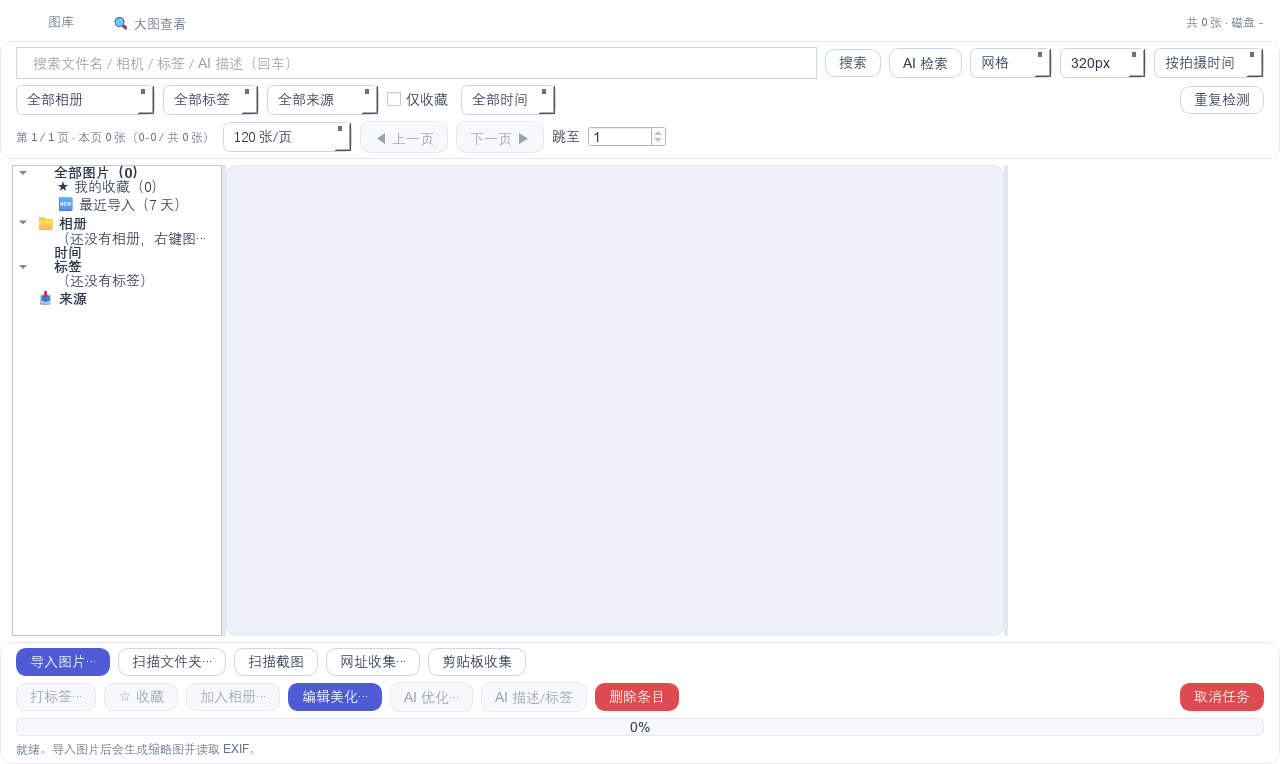
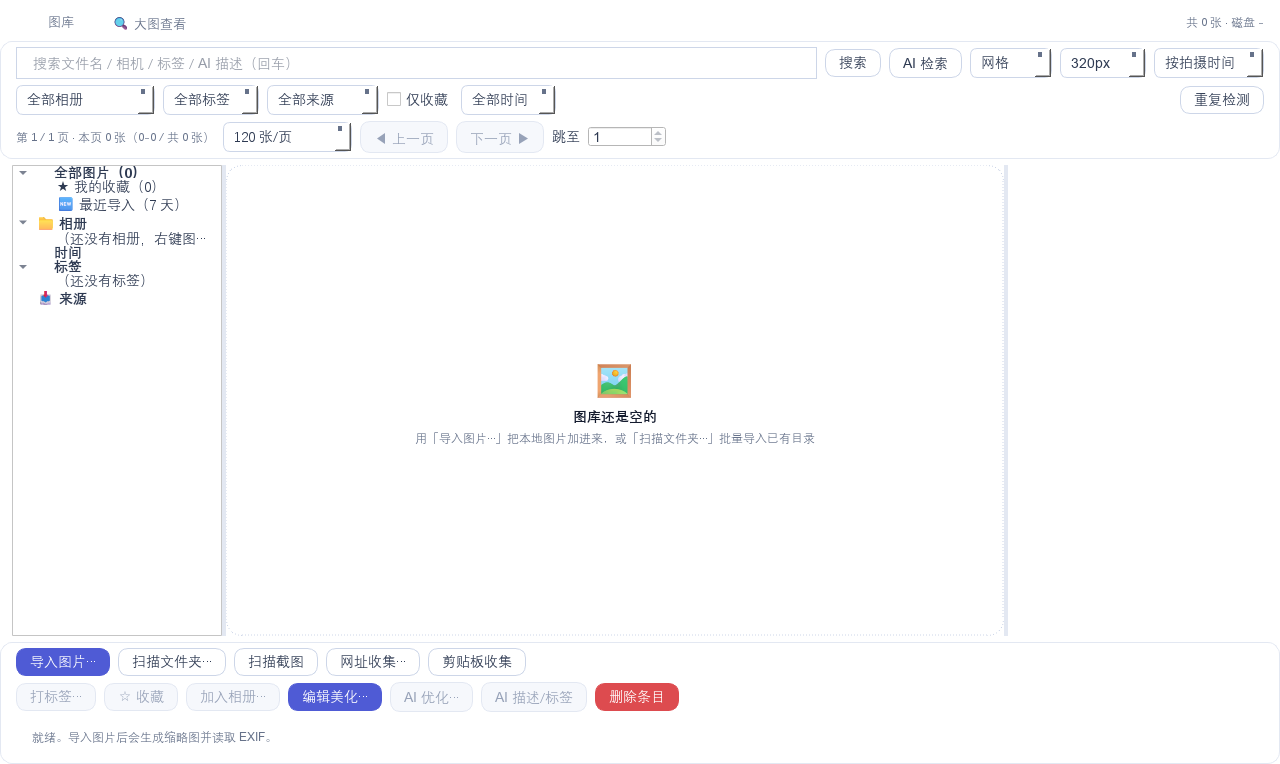
refactor(p4d): 图库板块接入统一任务条 + 空图库引导；进度语义统一

diff --git a/src/modu_workbench/boards/gallery/board.py b/src/modu_workbench/boards/gallery/board.py
@@ -52,6 +52,8 @@ from modu_workbench.core.gallery import (
 )
 from . import context as app_context
 from modu_workbench.ui_kit.toast import Toaster
+from modu_workbench.ui_kit.components import EmptyState, TaskBar
+from modu_workbench.ui_kit.tokens import PAGE_MARGIN, ROW_GAP, SPACE
 from modu_workbench.ui_kit.widgets import make_nav_button, set_nav_active
 
 from .widgets import (
@@ -77,6 +79,39 @@ THUMB_STEPS = ((6, THUMB_SMALL), (4, THUMB_MEDIUM), (3, 260), (2, THUMB_LARGE))
 
 class GalleryBoardPage(QWidget):
     """墨软图库板块。"""
+
+    # ------------------------------------------------------------------ 状态
+
+    @property
+    def _status(self) -> QLabel:
+        """兼容旧引用：状态文字统一显示在任务条上。"""
+        return self._task_bar._label          # noqa: SLF001
+
+    @property
+    def _progress(self) -> QProgressBar:
+        """兼容旧引用：进度来自任务条。"""
+        return self._task_bar._progress       # noqa: SLF001
+
+    def _report(self, message: str, done: int = 0, total: int = 0) -> None:
+        if done or total:
+            self._task_bar.report(message, done, total)
+        else:
+            self._task_bar.note(message)
+
+    def _busy(self, message: str) -> None:
+        """进行中（未知时长）：导入/收集/AI 这类任务。"""
+        self._task_bar.busy(message)
+
+    def _idle(self, message: str = "") -> None:
+        self._task_bar.idle(message)
+
+    def _set_progress(self, value: int) -> None:
+        """兼容旧写法：只更新进度数值；是否显示进度条由 report/busy/idle 决定。"""
+        bar = self._task_bar._progress if hasattr(self, "_task_bar") else (
+            self._task._progress if self._task is not None else None)     # noqa: SLF001
+        if bar is not None:
+            bar.setRange(0, 100)
+            bar.setValue(int(value))
 
     def __init__(self, parent: QWidget | None = None, *, library: ImageLibrary | None = None):
         super().__init__(parent)
@@ -279,7 +314,20 @@ class GalleryBoardPage(QWidget):
         self._grid.itemActivated.connect(self._open_viewer)
         self._grid.selectionChangedItems.connect(self._on_selection_changed)
         self._grid.customContextMenuRequested.connect(self._on_grid_menu)
-        self._splitter.addWidget(self._grid)
+
+        # 网格容器：空图库时给引导（图标 + 说明 + 主操作），而不是一块空白大灰框
+        self._grid_holder = QWidget()
+        holder_layout = QVBoxLayout(self._grid_holder)
+        holder_layout.setContentsMargins(0, 0, 0, 0)
+        holder_layout.setSpacing(8)
+        self._empty = EmptyState(
+            "🖼", "图库还是空的",
+            "用「导入图片…」把本地图片加进来，或「扫描文件夹…」批量导入已有目录",
+        )
+        holder_layout.addWidget(self._empty)
+        holder_layout.addWidget(self._grid)
+        self._grid.setVisible(False)
+        self._splitter.addWidget(self._grid_holder)
 
         self._details = QTextBrowser()
         self._details.setOpenExternalLinks(True)
@@ -457,15 +505,11 @@ class GalleryBoardPage(QWidget):
         row2.addWidget(self._cancel_button)
         outer.addLayout(row2)
 
-        self._progress = QProgressBar()
-        self._progress.setRange(0, 100)
-        self._progress.setValue(0)
-        outer.addWidget(self._progress)
-
-        self._status = QLabel("就绪。导入图片后会生成缩略图并读取 EXIF。")
-        self._status.setObjectName("readerStatus")
-        self._status.setWordWrap(True)
-        outer.addWidget(self._status)
+        # 统一任务条：导入/收集/AI 任务的状态与进度都汇总到这里（空闲自动收起）
+        self._task_bar = TaskBar("就绪。导入图片后会生成缩略图并读取 EXIF。")
+        self._task_bar.cancelled.connect(self._cancel_tasks)
+        self._cancel_button.setVisible(False)      # 取消统一由任务条提供
+        outer.addWidget(self._task_bar)
         return bar
 
     def _install_shortcuts(self) -> None:
@@ -540,6 +584,9 @@ class GalleryBoardPage(QWidget):
         page_changed = self._page != previous_page
         self._items = self.page_items(self._page)
         self._grid.set_items(self._items, keep_selection=keep_page and not page_changed)
+        has_items = bool(self._items)
+        self._empty.setVisible(not has_items)
+        self._grid.setVisible(has_items)
         if page_changed:
             self._grid.scrollToTop()
 
@@ -850,13 +897,13 @@ class GalleryBoardPage(QWidget):
         columns, size = self._size_combo.currentData() or (4, THUMB_MEDIUM)
         if mode == "waterfall":
             self._grid.set_thumb_size(size, columns=columns)
-            self._status.setText("瀑布流视图：按图片比例自适应（缩略图保持原比例）")
+            self._report("瀑布流视图：按图片比例自适应（缩略图保持原比例）")
         elif mode == "timeline":
             self._sort_combo.setCurrentIndex(list(SORT_MODES).index("taken"))
-            self._status.setText("时间轴视图：按拍摄时间倒序，可用上方「时间」筛选到具体月份")
+            self._report("时间轴视图：按拍摄时间倒序，可用上方「时间」筛选到具体月份")
         else:
             self._grid.set_thumb_size(size, columns=columns)
-            self._status.setText("网格视图")
+            self._report("网格视图")
 
     def _on_size_changed(self) -> None:
         payload = self._size_combo.currentData()
@@ -955,7 +1002,7 @@ class GalleryBoardPage(QWidget):
         album_id = self._kind_combo.currentData() or None
         if self._kind_combo.currentIndex() == 0:
             album_id = None
-        self._status.setText("开始导入…")
+        self._busy("开始导入…")
         self._cancel_button.setEnabled(True)
         self._browse_worker = ImportWorker(
             self._library, paths, source=source,
@@ -968,8 +1015,8 @@ class GalleryBoardPage(QWidget):
         self._browse_worker.start()
 
     def _on_import_done(self, result) -> None:  # noqa: ANN001
-        self._progress.setValue(100)
-        self._status.setText(f"导入完成：{result.summary()}")
+        self._set_progress(100)
+        self._report(f"导入完成：{result.summary()}")
         self._toaster.success(f"导入完成：{result.summary()}")
         self.reload()
 
@@ -981,11 +1028,11 @@ class GalleryBoardPage(QWidget):
         self._url_worker.collected.connect(self._on_url_collected)
         self._url_worker.failed.connect(self._on_task_failed)
         self._url_worker.start()
-        self._status.setText("正在下载图片…")
+        self._busy("正在下载图片…")
 
     def _on_url_collected(self, item) -> None:  # noqa: ANN001
         self._toaster.success(f"已收集：{item.display()}")
-        self._status.setText(f"已收集：{item.display()}")
+        self._report(f"已收集：{item.display()}")
         self.reload()
 
     def _collect_clipboard(self) -> None:
@@ -1105,18 +1152,18 @@ class GalleryBoardPage(QWidget):
 
     def _on_edit_saved(self, path: str) -> None:
         """编辑保存后回报到底栏 —— 否则进度条一直停在 0%，看起来像没执行。"""
-        self._progress.setValue(100)
-        self._status.setText(f"已保存编辑结果：{Path(path).name}（原图未改动）")
+        self._set_progress(100)
+        self._report(f"已保存编辑结果：{Path(path).name}（原图未改动）")
         self._after_edit()
 
     def _on_enhance_done(self, outputs: list, errors: list) -> None:
         """AI 优化（本地增强）结束后把进度与结果写回底栏。"""
         total = len(outputs) + len(errors)
-        self._progress.setValue(100 if not errors else int(len(outputs) * 100 / max(1, total)))
+        self._set_progress(100 if not errors else int(len(outputs) * 100 / max(1, total)))
         message = f"AI 优化完成：生成 {len(outputs)} 张新图"
         if errors:
             message += f"，失败 {len(errors)} 张（{errors[0]}）"
-        self._status.setText(message + "；原图未改动")
+        self._report(message + "；原图未改动")
         self._after_edit()
 
     def _analyze_selected(self) -> None:
@@ -1144,15 +1191,15 @@ class GalleryBoardPage(QWidget):
         self._analyze_worker.failed.connect(self._on_task_failed)
         self._analyze_worker.finished.connect(self._on_worker_finished)
         self._analyze_worker.start()
-        self._status.setText(
+        self._report(
             f"AI 分析 {len(items)} 张（{'图片大模型看图' if allow_upload and prefer_vision else '文字大模型·仅元数据'}）…")
 
     def _on_analyze_done(self, ok: int, errors: list) -> None:
-        self._progress.setValue(100)
+        self._set_progress(100)
         message = f"AI 分析完成：成功 {ok}，失败 {len(errors)}"
         if errors:
             message += "；" + "；".join(errors[:2])
-        self._status.setText(message)
+        self._report(message)
         if ok:
             self._toaster.success(f"已为 {ok} 张图片生成描述/标签")
         else:
@@ -1162,7 +1209,7 @@ class GalleryBoardPage(QWidget):
     def _detect_duplicates(self) -> None:
         if self._duplicate_worker is not None and self._duplicate_worker.isRunning():
             return
-        self._status.setText("正在检测重复/相似图片…")
+        self._report("正在检测重复/相似图片…")
         self._duplicate_worker = DuplicateWorker(self._library, parent=self)
         self._duplicate_worker.finishedGroups.connect(self._on_duplicates)
         self._duplicate_worker.failed.connect(self._on_task_failed)
@@ -1172,11 +1219,11 @@ class GalleryBoardPage(QWidget):
         self._duplicates = groups
         if not groups:
             self._toaster.info("未发现重复或相似图片")
-            self._status.setText("重复检测完成：无重复")
+            self._report("重复检测完成：无重复")
             return
         total = sum(len(group) for group in groups)
         self._toaster.info(f"发现 {len(groups)} 组相似图片（共 {total} 张）")
-        self._status.setText(f"发现 {len(groups)} 组相似图片，可在右键菜单里按组删除多余的")
+        self._report(f"发现 {len(groups)} 组相似图片，可在右键菜单里按组删除多余的")
         self._show_duplicate_groups(groups)
 
     def _show_duplicate_groups(self, groups: list) -> None:
@@ -1246,21 +1293,21 @@ class GalleryBoardPage(QWidget):
             self._slide_timer.setInterval(interval)
             self._slide_timer.timeout.connect(lambda: self._step_viewer(1))
             self._slide_timer.start()
-            self._status.setText(f"幻灯片播放中（每 {interval // 1000} 秒切换）")
+            self._report(f"幻灯片播放中（每 {interval // 1000} 秒切换）")
         else:
             timer = getattr(self, "_slide_timer", None)
             if timer is not None:
                 timer.stop()
-            self._status.setText("已停止幻灯片")
+            self._report("已停止幻灯片")
 
     # ------------------------------------------------------------------ 线程与状态
 
     def _on_progress(self, done: int, total: int, message: str) -> None:
-        self._progress.setValue(int(done * 100 / total) if total else 0)
-        self._status.setText(message)
+        self._set_progress(int(done * 100 / total) if total else 0)
+        self._report(message)
 
     def _on_task_failed(self, message: str) -> None:
-        self._status.setText(f"任务失败：{message}")
+        self._report(f"任务失败：{message}")
         self._toaster.error(message)
 
     def _on_worker_finished(self) -> None:
@@ -1271,7 +1318,7 @@ class GalleryBoardPage(QWidget):
                        self._analyze_worker):
             if worker is not None and worker.isRunning():
                 worker.cancel()
-        self._status.setText("正在取消任务…")
+        self._report("正在取消任务…")
 
     def _on_grid_menu(self, pos) -> None:  # noqa: ANN001
         # 右键落点即操作对象：默认右键不改选中项，会出现"菜单作用于上一张图"
@@ -1326,7 +1373,7 @@ class GalleryBoardPage(QWidget):
             self._toaster.info("未能拆出关键词，已按原词搜索")
             return
         self._search.setText(keywords[0])
-        self._status.setText("AI 关键词：" + "、".join(keywords))
+        self._report("AI 关键词：" + "、".join(keywords))
         self.reload()
 
     def _update_buttons(self) -> None:

diff --git a/src/modu_workbench/boards/music/library_page.py b/src/modu_workbench/boards/music/library_page.py
@@ -87,9 +87,12 @@ class MusicLibraryPage(QWidget):
             self._task.idle(message)
 
     def _set_progress(self, value: int) -> None:
-        """兼容旧写法：只在任务进行中更新进度（空闲时不要把进度条显示出来）。"""
-        if self._task is not None and self._task.is_busy:
-            self._task.report(self._task.text, int(value), 100)
+        """兼容旧写法：只更新进度数值；是否显示进度条由 report/busy/idle 决定。"""
+        bar = self._task_bar._progress if hasattr(self, "_task_bar") else (
+            self._task._progress if self._task is not None else None)     # noqa: SLF001
+        if bar is not None:
+            bar.setRange(0, 100)
+            bar.setValue(int(value))
 
     def __init__(self, library: MusicLibrary, storage: MusicStorage, player: MusicPlayer,
                  toaster: Toaster, parent: QWidget | None = None, *, task_bar=None):
@@ -448,9 +451,12 @@ class MusicConvertPage(QWidget):
             self._task.idle(message)
 
     def _set_progress(self, value: int) -> None:
-        """兼容旧写法：只在任务进行中更新进度（空闲时不要把进度条显示出来）。"""
-        if self._task is not None and self._task.is_busy:
-            self._task.report(self._task.text, int(value), 100)
+        """兼容旧写法：只更新进度数值；是否显示进度条由 report/busy/idle 决定。"""
+        bar = self._task_bar._progress if hasattr(self, "_task_bar") else (
+            self._task._progress if self._task is not None else None)     # noqa: SLF001
+        if bar is not None:
+            bar.setRange(0, 100)
+            bar.setValue(int(value))
 
     def __init__(self, library: MusicLibrary, storage: MusicStorage, toaster: Toaster,
                  parent: QWidget | None = None, *, task_bar=None):

diff --git a/src/modu_workbench/boards/music/playlist.py b/src/modu_workbench/boards/music/playlist.py
@@ -86,9 +86,12 @@ class MusicPlaylistPage(QWidget):
             self._task.idle(message)
 
     def _set_progress(self, value: int) -> None:
-        """兼容旧写法：只在任务进行中更新进度（空闲时不要把进度条显示出来）。"""
-        if self._task is not None and self._task.is_busy:
-            self._task.report(self._task.text, int(value), 100)
+        """兼容旧写法：只更新进度数值；是否显示进度条由 report/busy/idle 决定。"""
+        bar = self._task_bar._progress if hasattr(self, "_task_bar") else (
+            self._task._progress if self._task is not None else None)     # noqa: SLF001
+        if bar is not None:
+            bar.setRange(0, 100)
+            bar.setValue(int(value))
 
     def __init__(self, library: MusicLibrary, storage: MusicStorage, player: MusicPlayer,
                  toaster: Toaster, parent: QWidget | None = None, *, task_bar=None):

diff --git a/src/modu_workbench/boards/music/history.py b/src/modu_workbench/boards/music/history.py
@@ -54,9 +54,12 @@ class MusicHistoryPage(QWidget):
             self._task.idle(message)
 
     def _set_progress(self, value: int) -> None:
-        """兼容旧写法：只在任务进行中更新进度（空闲时不要把进度条显示出来）。"""
-        if self._task is not None and self._task.is_busy:
-            self._task.report(self._task.text, int(value), 100)
+        """兼容旧写法：只更新进度数值；是否显示进度条由 report/busy/idle 决定。"""
+        bar = self._task_bar._progress if hasattr(self, "_task_bar") else (
+            self._task._progress if self._task is not None else None)     # noqa: SLF001
+        if bar is not None:
+            bar.setRange(0, 100)
+            bar.setValue(int(value))
 
     def __init__(self, library: MusicLibrary, storage: MusicStorage, player: MusicPlayer,
                  toaster: Toaster, parent: QWidget | None = None, *, task_bar=None):

diff --git a/src/modu_workbench/boards/music/search.py b/src/modu_workbench/boards/music/search.py
@@ -106,9 +106,12 @@ class MusicSearchPage(QWidget):
             self._task.idle(message)
 
     def _set_progress(self, value: int) -> None:
-        """兼容旧写法：只在任务进行中更新进度（空闲时不要把进度条显示出来）。"""
-        if self._task is not None and self._task.is_busy:
-            self._task.report(self._task.text, int(value), 100)
+        """兼容旧写法：只更新进度数值；是否显示进度条由 report/busy/idle 决定。"""
+        bar = self._task_bar._progress if hasattr(self, "_task_bar") else (
+            self._task._progress if self._task is not None else None)     # noqa: SLF001
+        if bar is not None:
+            bar.setRange(0, 100)
+            bar.setValue(int(value))
 
     def __init__(self, library: MusicLibrary, storage: MusicStorage, toaster: Toaster,
                  parent: QWidget | None = None, *, task_bar=None):

diff --git a/src/modu_workbench/boards/video/library_page.py b/src/modu_workbench/boards/video/library_page.py
@@ -427,9 +427,12 @@ class VideoLibraryPage(QWidget):
             self._task.idle(message)
 
     def _set_progress(self, value: int) -> None:
-        """兼容旧写法：只在任务进行中更新进度（空闲时不要把进度条显示出来）。"""
-        if self._task is not None and self._task.is_busy:
-            self._task.report(self._task.text, int(value), 100)
+        """兼容旧写法：只更新进度数值；是否显示进度条由 report/busy/idle 决定。"""
+        bar = self._task_bar._progress if hasattr(self, "_task_bar") else (
+            self._task._progress if self._task is not None else None)     # noqa: SLF001
+        if bar is not None:
+            bar.setRange(0, 100)
+            bar.setValue(int(value))
 
     # ------------------------------------------------------------------ 其它
 

diff --git a/CHANGELOG.md b/CHANGELOG.md
@@ -96,6 +96,15 @@
   ③ 定义只读 `_status` 属性的类不得再给它赋值；④ 接入任务条的页面必须声明 `task_bar` 参数。
   这三条正是本轮实际踩到的坑，现在由测试兜住。
 
+#### P4d 墨软图库板块（统一任务条 + 空图库引导）
+
+- 图库板块页内的进度条与状态标签替换为**共享任务条**；页内「取消任务」按钮隐藏（取消统一由任务条提供），
+  任务条的取消直接取消导入/收集/AI 任务。
+- 缩略图网格外套一层容器：**图库为空时显示引导**（🖼 + 下一步操作），不再是一块空白大灰框。
+- `_set_progress` 语义统一为「只更新进度数值，是否显示由 report/busy/idle 决定」，
+  避免空闲时冒出 0% 进度条，同时保持既有测试对进度值的断言成立。
+- 截图工具新增 `--sub`（渲染板块子页，如 `--only music --sub search,library,playlist,history`）。
+
 ## v0.3.1 — 墨软影视修复版
 
 ### 修复：影视板块「播放和下载都失败」
